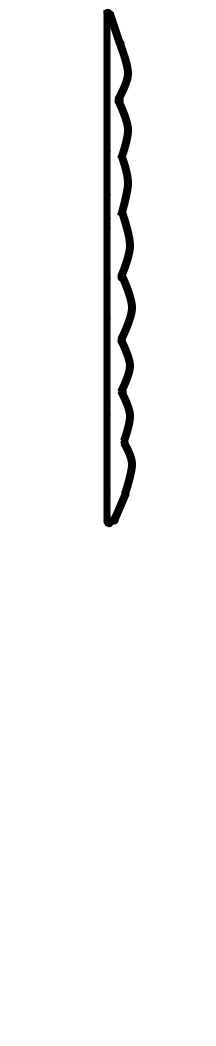
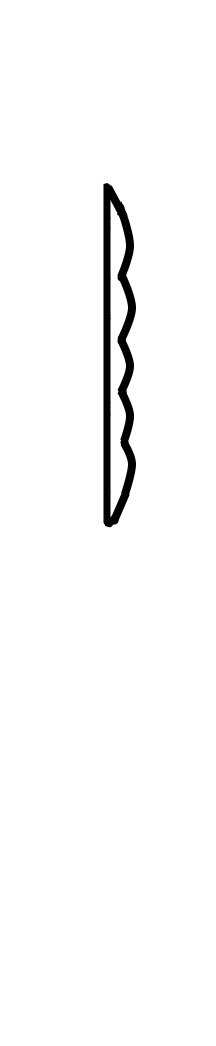
Made sail images shorter. Made sail in point in the direction of the wind #story[1356]

Changed region(s): [[0.4722, 0.0, 0.6111, 0.2141]]

diff --git a/visualiser/src/main/java/seng302/Controllers/AgarRaceController.java b/visualiser/src/main/java/seng302/Controllers/AgarRaceController.java
@@ -190,7 +190,7 @@ public class AgarRaceController implements IRaceController {
                     Coordinate.setTrackingBoat(false);
                     followingBoat = !followingBoat;
                 }
-                Platform.runLater( ()-> {  positionTable.getSelectionModel().clearSelection();  });
+                Platform.runLater( ()-> positionTable.getSelectionModel().clearSelection());
             }
         });
     }
@@ -233,19 +233,14 @@ public class AgarRaceController implements IRaceController {
 
         legCol.setSortType(TreeTableColumn.SortType.ASCENDING);
 
-        nameCol.setCellValueFactory(new Callback<TreeTableColumn.CellDataFeatures<GenericBoat, String>, ObservableValue<String>>() {
-            @Override
-            public ObservableValue<String> call(TreeTableColumn.CellDataFeatures<GenericBoat, String> param) {
-                return param.getValue().getValue().getBoatName();
-            }
-        });
+        nameCol.setCellValueFactory(param -> param.getValue().getValue().getBoatName());
 
         speedCol.setCellValueFactory(p -> {
             String speed = String.valueOf(p.getValue().getValue().getSpeedInKnots());
             return new ReadOnlyObjectWrapper<>(speed);
         });
 
-        TreeItem<GenericBoat> tableRoot = new RecursiveTreeItem<GenericBoat>(race.boatsObs, RecursiveTreeObject::getChildren);
+        TreeItem<GenericBoat> tableRoot = new RecursiveTreeItem<>(race.boatsObs, RecursiveTreeObject::getChildren);
         positionTable.setRoot(tableRoot);
         positionTable.getColumns().setAll(legCol, nameCol, speedCol);
         positionTable.setShowRoot(false);
@@ -422,7 +417,7 @@ public class AgarRaceController implements IRaceController {
                         boats.get(i).sailOut();
                     } else {
                         boats.get(i).sailIn();
-                        sail.setRotate(boatHeading + 180);
+                        sail.setRotate(race.getWindHeading());
                     }
                 }
             }
@@ -1091,23 +1086,17 @@ public class AgarRaceController implements IRaceController {
     }
 
     private void initFinisherObserver(){
-        race.getBoatsForScoreBoard().addListener(new ListChangeListener<GenericBoat>() {
-            @Override
-            public void onChanged(Change<? extends GenericBoat> c) {
-                for (GenericBoat boat : race.getBoatsForScoreBoard()) {
-                    if (boat.getSourceId() == race.getClientSourceId()){
-                        if(!clientFinished) {
-                            finishingPane.setVisible(true);
-                            toggleFinishersBtn.setVisible(true);
-                            isFinishersHidden = false;
-                            clientFinished = true;
-                        }
-
-
+        race.getBoatsForScoreBoard().addListener((ListChangeListener<GenericBoat>) c -> {
+            for (GenericBoat boat : race.getBoatsForScoreBoard()) {
+                if (boat.getSourceId() == race.getClientSourceId()){
+                    if(!clientFinished) {
+                        finishingPane.setVisible(true);
+                        toggleFinishersBtn.setVisible(true);
+                        isFinishersHidden = false;
+                        clientFinished = true;
                     }
                 }
             }
-
         });
     }
 
@@ -1124,7 +1113,7 @@ public class AgarRaceController implements IRaceController {
         }
     }
 
-    public void loadFinishers() throws IOException {
+    private void loadFinishers() throws IOException {
 
         FXMLLoader fxmlLoader = new FXMLLoader();
         AnchorPane anchorPane = fxmlLoader.load(getClass().getClassLoader().getResource("FXML/FinishingPage.fxml").openStream());

diff --git a/visualiser/src/main/java/seng302/Controllers/RaceController.java b/visualiser/src/main/java/seng302/Controllers/RaceController.java
@@ -218,19 +218,14 @@ public class RaceController implements IRaceController {
 
         legCol.setSortType(TreeTableColumn.SortType.ASCENDING);
 
-        nameCol.setCellValueFactory(new Callback<TreeTableColumn.CellDataFeatures<GenericBoat, String>, ObservableValue<String>>() {
-            @Override
-            public ObservableValue<String> call(TreeTableColumn.CellDataFeatures<GenericBoat, String> param) {
-                return param.getValue().getValue().getBoatName();
-            }
-        });
+        nameCol.setCellValueFactory(param -> param.getValue().getValue().getBoatName());
 
         speedCol.setCellValueFactory(p -> {
             String speed = String.valueOf(p.getValue().getValue().getSpeedInKnots());
             return new ReadOnlyObjectWrapper<>(speed);
         });
 
-        TreeItem<GenericBoat> tableRoot = new RecursiveTreeItem<GenericBoat>(race.boatsObs, RecursiveTreeObject::getChildren);
+        TreeItem<GenericBoat> tableRoot = new RecursiveTreeItem<>(race.boatsObs, RecursiveTreeObject::getChildren);
         positionTable.setRoot(tableRoot);
         positionTable.getColumns().setAll(legCol, nameCol, speedCol);
         positionTable.setShowRoot(false);
@@ -373,7 +368,7 @@ public class RaceController implements IRaceController {
                     boats.get(i).sailOut();
                 } else {
                     boats.get(i).sailIn();
-                    sail.setRotate(boatHeading + 180);
+                    sail.setRotate(race.getWindHeading() + 180);
                 }
             }
         }
@@ -1053,19 +1048,17 @@ public class RaceController implements IRaceController {
     }
 
     private void initFinisherObserver(){
-        race.getBoatsForScoreBoard().addListener(new ListChangeListener<GenericBoat>() {
-            @Override
-            public void onChanged(Change<? extends GenericBoat> c) {
-                for (GenericBoat boat : race.getBoatsForScoreBoard()) {
-                    if (boat.getSourceId() == race.getClientSourceId()){
-                        if(!clientFinished) {
-                            finishingPane.setVisible(true);
-                            toggleFinishersBtn.setVisible(true);
-                            isFinishersHidden = false;
-                            clientFinished = true;
-                        }
+        race.getBoatsForScoreBoard().addListener((ListChangeListener<GenericBoat>) c -> {
+            for (GenericBoat boat : race.getBoatsForScoreBoard()) {
+                if (boat.getSourceId() == race.getClientSourceId()){
+                    if(!clientFinished) {
+                        finishingPane.setVisible(true);
+                        toggleFinishersBtn.setVisible(true);
+                        isFinishersHidden = false;
+                        clientFinished = true;
                     }
                 }
+            }
 //                if (race.getBoatsMap().size() == race.getBoatsForScoreBoard().size()){
 //                    race.finishRace();
 //                }
@@ -1073,7 +1066,6 @@ public class RaceController implements IRaceController {
 //                    race.finishRace();
 //                    raceFinishTimerStarted = true;
 //                }
-            }
         });
     }
 
@@ -1090,7 +1082,7 @@ public class RaceController implements IRaceController {
         }
     }
 
-    public void loadFinishers() throws IOException {
+    private void loadFinishers() throws IOException {
 
         FXMLLoader fxmlLoader = new FXMLLoader();
         AnchorPane anchorPane = fxmlLoader.load(getClass().getClassLoader().getResource("FXML/FinishingPage.fxml").openStream());

diff --git a/visualiser/src/main/java/seng302/Visualiser/BoatSprite.java b/visualiser/src/main/java/seng302/Visualiser/BoatSprite.java
@@ -108,8 +108,7 @@ public class BoatSprite {
     }
 
     private void initialiseSail(){
-
-        sailOut = new Image(Thread.currentThread().getContextClassLoader().getResourceAsStream("sail1.png"));
+        sailOut = new Image(Thread.currentThread().getContextClassLoader().getResourceAsStream("sail2.png"));
         sailIn = new Image(Thread.currentThread().getContextClassLoader().getResourceAsStream("sailIn.png"));
 
         sail = new ImageView(sailOut);
